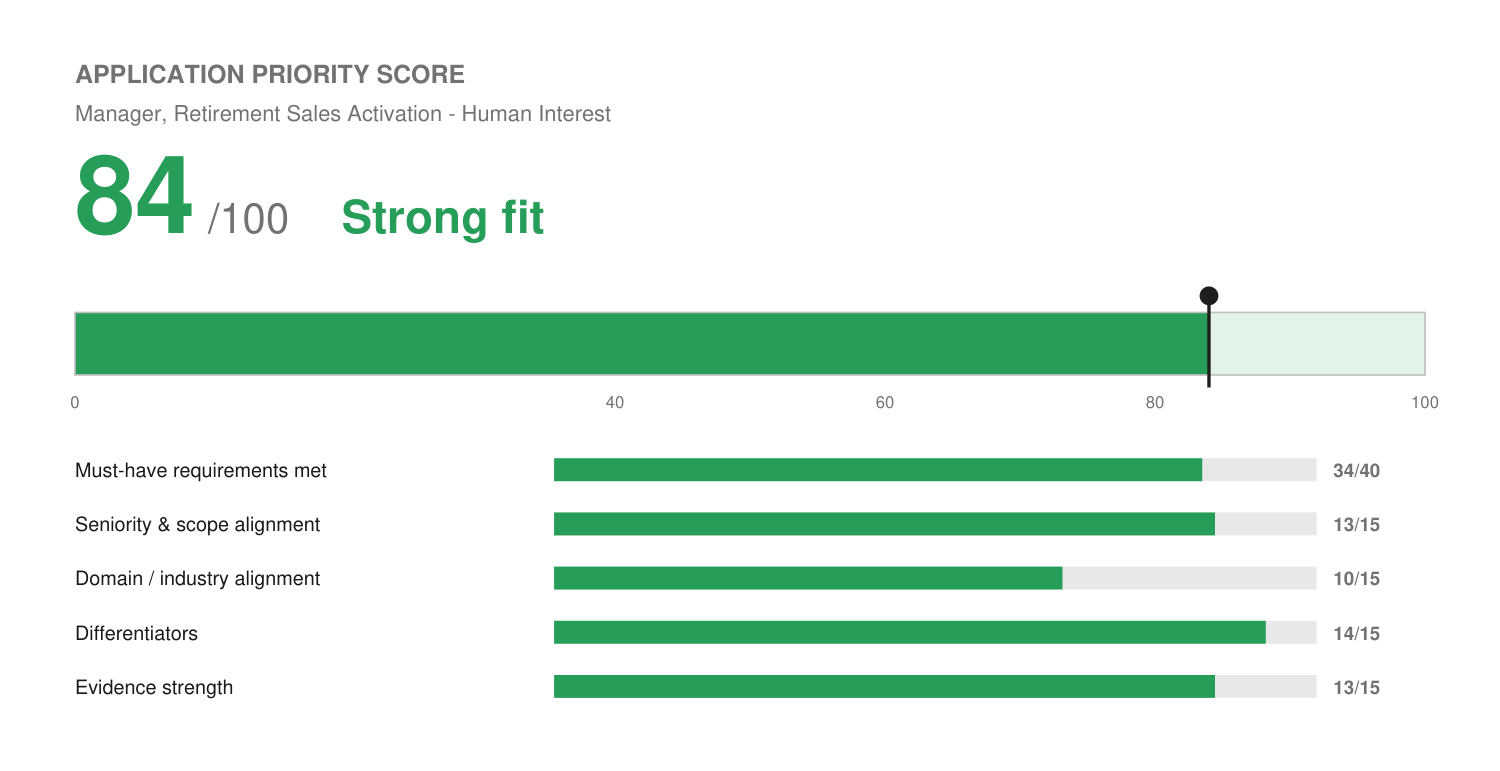
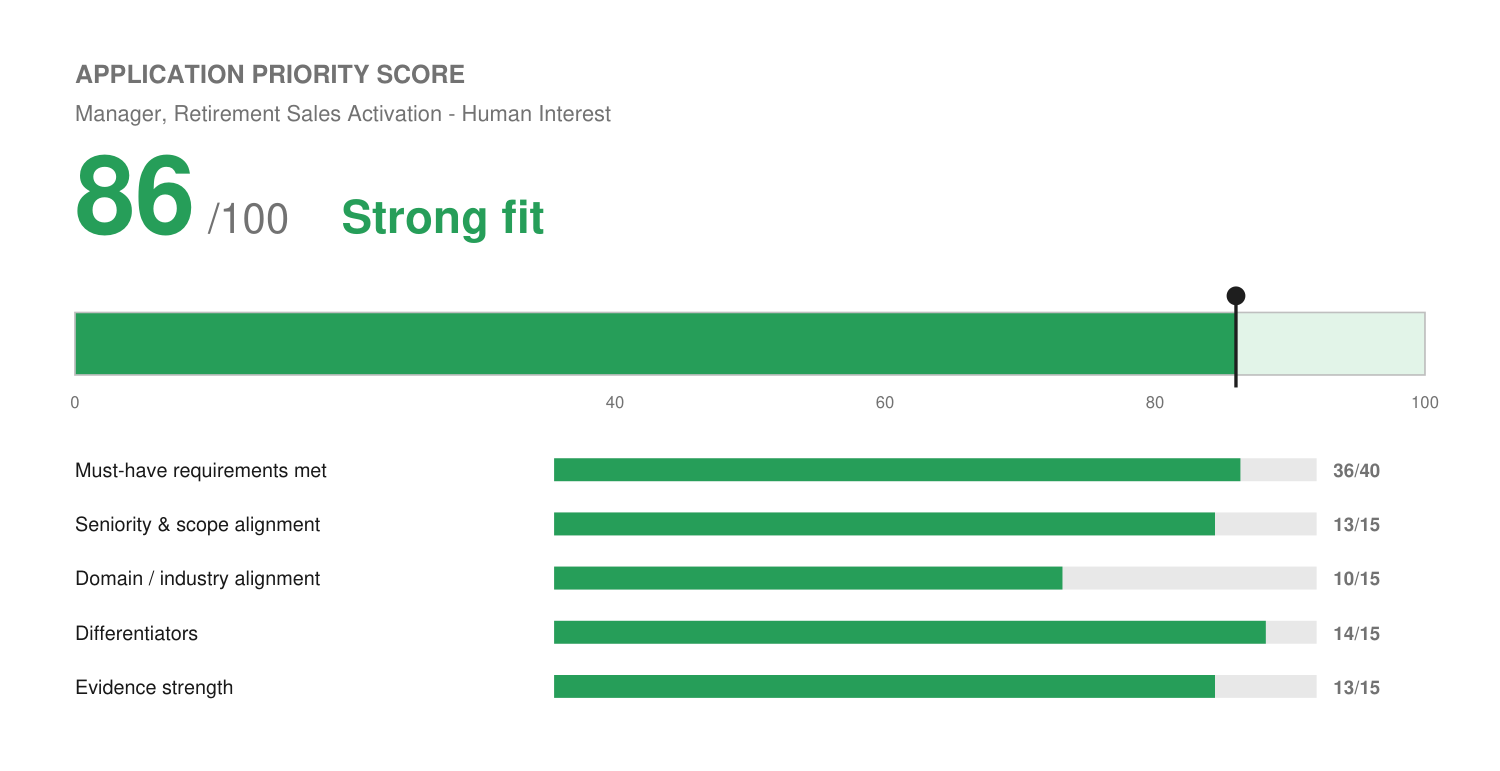
Profile: team forecasting in every sales role (correction), 401(k) participant only; update Human Interest (score 86)
Claude-Session: https://claude.ai/code/session_013J244MsEuZNucsaEcbyk8A

Changed region(s): [[0.7973, 0.3735, 0.828, 0.4981], [0.092, 0.1868, 0.1227, 0.3113], [0.7973, 0.5914, 0.828, 0.6226]]

diff --git a/profile/master-profile.md b/profile/master-profile.md
@@ -541,24 +541,28 @@ operator talking, not like a candidate performing.
 
 ## Core Competencies Bank (mix & match to the job)
 
-> **Forecasting / pipeline-stage awareness (confirmed by Josh, Sep 2026):** knowing where
-> an opportunity sits in the sales process has been part of every sales role Josh has
-> held, not a skill isolated to one job. Frame as career-long individual-contributor
-> pipeline visibility and forecast hygiene; he has not run a formal team forecast cadence
-> or owned a territory-planning process, keep that distinction honest against a JD asking
-> specifically for that broader scope.
+> **Team forecasting (corrected by Josh, Sep 2026, do not re-ask or re-narrow):** Josh has
+> done team forecasting in every sales job he has held, not just individual pipeline
+> hygiene. An earlier version of this note said he had never run a formal team forecast;
+> that was wrong and Josh called it out directly. Claim team forecasting and pipeline
+> forecasting as real, career-long experience. Still not captured: territory-planning or
+> capacity-planning ownership specifically, ask before claiming those by name.
+>
+> **401(k) (confirmed by Josh, Sep 2026):** has been a 401(k) plan participant personally.
+> No employer-side plan design, plan administration, or retirement-industry work. Represent
+> as participant familiarity only.
 
 | Category | Competencies |
 | :--- | :--- |
 | CRM & Marketing Automation | GoHighLevel (primary) CRM & Automation Architecture, HubSpot, Salesforce, Workflow Design, Segmentation, Data Hygiene, Lifecycle Stages, Lead Routing, Zapier, Make, n8n |
-| Sales Engagement & Enrichment | Salesloft, ZoomInfo, Gong (confirmed hands-on, Sep 2026; role attribution to be captured), Pipeline Stage Tracking & Forecast Hygiene |
+| Sales Engagement & Enrichment | Salesloft, ZoomInfo, Gong (confirmed hands-on, Sep 2026; role attribution to be captured), Pipeline Stage Tracking, Team Forecasting |
 | Growth & Demand Generation | Full-funnel acquisition, Lifecycle Marketing, CRO, A/B Testing, Paid Media, Paid Social (Meta Ads certified), SEO, Local SEO & Google Business Profile Management, Data-Aggregator/Listings Solutions, Email Marketing (Marketo, Mailchimp), Landing Pages |
 | Analytics & Reporting | GA4, Google Search Console, Google Tag Manager, Ahrefs, Semrush, Campaign Attribution, ROI Dashboards, QBRs, KPI Tracking |
 | Data & BI Tools | Excel (experienced), Power BI (hands-on setup for client businesses), SQL (working proficiency — Power BI data modeling, BigQuery/GA4 queries), Python & JavaScript (custom code steps in Zapier/Make/n8n automation workflows) *(confirmed by Josh, Sep 2026 — see note below)* |
 | Web Technical | HTML/CSS (hands-on, own Solenzo site + client GA4 implementation), JavaScript (automation-tool code steps) |
 | AI & Automation | Agentic AI, Multi-agent orchestration, LLM workflows, ChatGPT, Claude, Prompt Design, Requirements-to-Prompt Translation, Stakeholder Elicitation, Rapid Prototyping |
 | Customer Success | Onboarding Strategy, Churn Prevention, Time-to-Value Reduction, NPS, Retention, Upsell Identification, Success Plans |
-| Sales & Account Management | Full-cycle Sales, Pipeline Management, Pipeline Stage Tracking & Forecast Hygiene, C-Suite Relationship Building, Strategic Advisory, Account Expansion |
+| Sales & Account Management | Full-cycle Sales, Pipeline Management, Team & Pipeline Forecasting, C-Suite Relationship Building, Strategic Advisory, Account Expansion |
 | Operations & Systems | Process Mapping, SOP Development, Workflow Decomposition, Project Management, Cross-functional Coordination |
 | Content & Writing | Thought Leadership, Direct Response Copy, Technical Translation, Brand Voice, Editorial Management |
 | Tools & Platforms | GoHighLevel, HubSpot, Salesforce, Notion, Slack, Asana, Monday.com, Jira, Zendesk, ClickUp, Screaming Frog, Google Apps, Procore |

diff --git a/applications/human-interest-manager-retirement-sales-activation/match-report.md b/applications/human-interest-manager-retirement-sales-activation/match-report.md
@@ -21,8 +21,8 @@ No knockouts.
 | Work authorization | Application-form | OK. U.S. citizen. |
 | 3-5 yrs experience, 2+ yrs people leadership in Sales/Implementation, SaaS or financial services | Resume-evidenced | **Covered.** Wix team lead 2 years (team of 20, later 8) + Fetch & Funnel sales team lead. |
 | Quota-carrying, target-driven track record | Resume-evidenced | **Covered, strong.** Wix 120%/110%; Accelo top three while quota doubled; Fetch & Funnel ~$130K bookings. |
-| 401(k) plan design, or ability to learn quickly | Resume-evidenced | **Gap (learnable).** No retirement-plan knowledge. Profile confirms no payroll/benefits administration. Posting accepts "ability to quickly develop." Named directly in cover letter. |
-| Pipeline management, forecasting, performance coaching | Resume-evidenced | **Partly covered.** Pipeline and coaching yes. Forecasting is individual pipeline hygiene; no formal team forecast or capacity planning ownership (per profile). |
+| 401(k) plan design, or ability to learn quickly | Resume-evidenced | **Gap (learnable).** Personal 401(k) participant only; no employer-side plan design. Profile confirms no payroll/benefits administration. Posting accepts "ability to quickly develop." Named directly in cover letter. |
+| Pipeline management, forecasting, performance coaching | Resume-evidenced | **Covered.** Team forecasting in every sales role (corrected by Josh, Sep 2026); team coaching at Wix and Fetch & Funnel. |
 | Process optimization, efficiency | Resume-evidenced | Covered. Wix process improvements (manager rec), Fetch & Funnel handoff fixes, automation. |
 | High-volume portfolios, complex implementations | Resume-evidenced | Covered. 25+/month at Wix. |
 | Bachelor's degree (preferred, Business/Operations) | Resume-evidenced | B.A. Liberal Arts. Not business; preferred only. |
@@ -32,8 +32,8 @@ No knockouts.
 ## Application Priority Score
 
 ```
-🟢 Application Priority Score: 84 / 100 (Strong fit)
-[█████████████████░░░]  84%
+🟢 Application Priority Score: 86 / 100 (Strong fit)
+[█████████████████░░░]  86%
 ```
 
 *Internal decision aid based on the master profile. Not a prediction of Human Interest's
@@ -41,7 +41,7 @@ ATS output or hiring decision.* See `fit.png`.
 
 | Dimension | Score | Reasoning |
 | :--- | :--- | :--- |
-| Must-have requirements met | 34 / 40 | Leadership, quota, high-volume activation, process work all land. 401(k) knowledge absent (learnable per posting); team forecasting/capacity planning not documented. |
+| Must-have requirements met | 36 / 40 | Leadership, quota, high-volume activation, process work all land. 401(k) plan design absent (learnable per posting). |
 | Seniority & scope alignment | 13 / 15 | People manager of an activation team. Wix team lead is the same shape; title was "Team Lead" not "Manager." |
 | Domain / industry alignment | 10 / 15 | SaaS yes. Retirement/fintech no; banking-client exposure only. |
 | Differentiators | 14 / 15 | Wix's "counted at first sale" model mirrors "counted at plan launch" almost exactly; combined sales and implementation load; automation builder. |
@@ -53,7 +53,7 @@ ATS output or hiring decision.* See `fit.png`.
 
 ## Requirement coverage
 
-8 of 10 requirements evidenced (forecasting partial, 401(k) a learnable gap).
+9 of 10 requirements evidenced (401(k) plan design a learnable gap).
 
 ## Top strengths
 
@@ -64,7 +64,6 @@ ATS output or hiring decision.* See `fit.png`.
 ## Gaps
 
 - No 401(k) / retirement plan knowledge (Safe Harbor, Auto-Enroll). Posting allows ramp-up.
-- No formal team forecasting or capacity-planning ownership.
 
 ## Candidate confirmation needed
 
